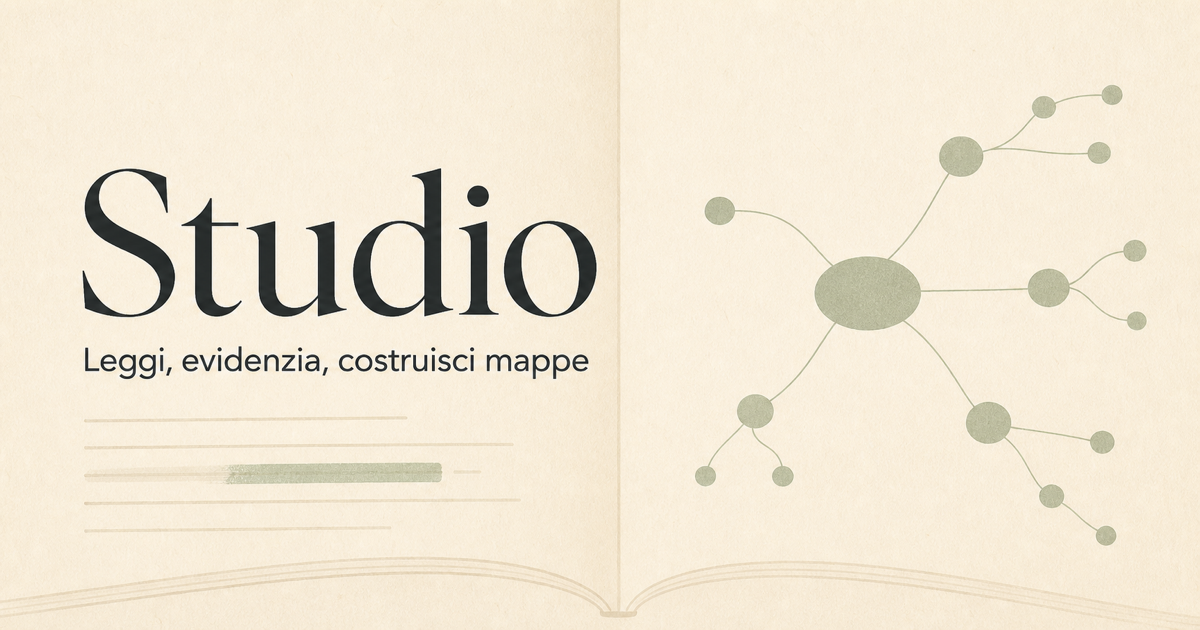
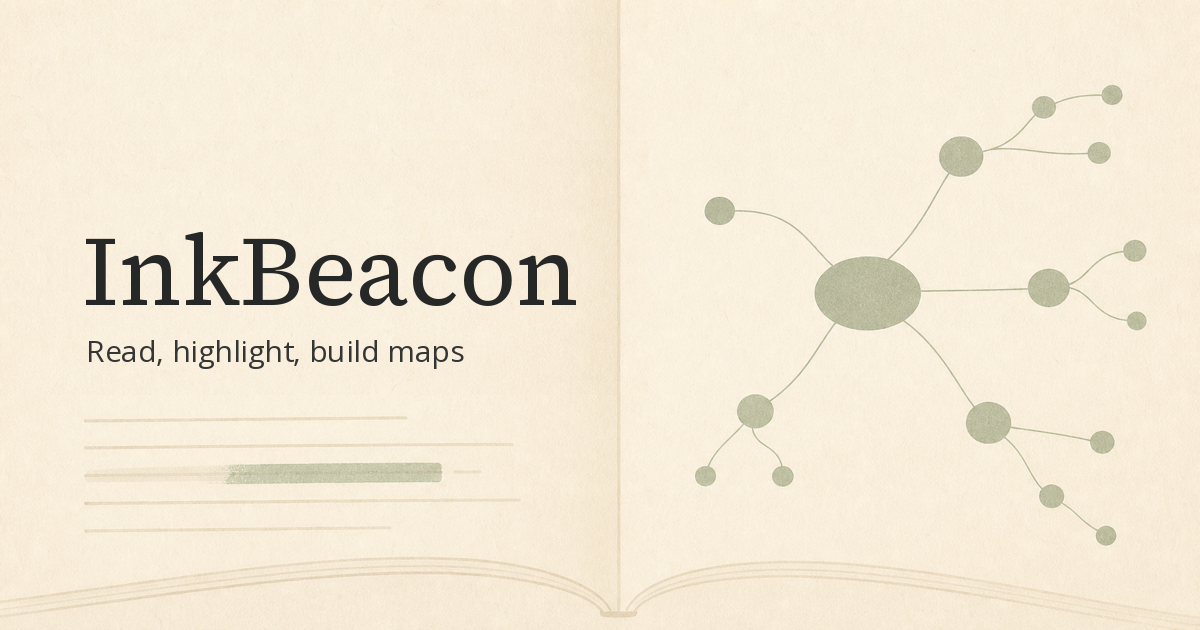
The app is called InkBeacon everywhere, share image included

Changed region(s): [[0.0617, 0.2413, 0.5242, 0.5127], [0.0617, 0.5429, 0.4933, 0.6032]]

diff --git a/app/layout.tsx b/app/layout.tsx
@@ -15,18 +15,18 @@ const metadataBase = new URL(
 
 export const metadata: Metadata = {
   metadataBase,
-  title: 'Studio — reading space',
+  title: 'InkBeacon',
   description:
-    'A personal surface for reading, highlighting and turning study sources into Mermaid maps.',
+    'A beacon of light in a “content” world where reading is hard-to-navigate. Read, highlight and turn what you study into Mermaid maps.',
   openGraph: {
-    title: 'Studio',
+    title: 'InkBeacon',
     description: 'Read, highlight, build maps.',
     images: [
       {
         url: '/og.png',
         width: 1200,
         height: 630,
-        alt: 'Studio — reading space and maps',
+        alt: 'InkBeacon — read, highlight, build maps',
       },
     ],
     type: 'website',
@@ -34,7 +34,7 @@ export const metadata: Metadata = {
   },
   twitter: {
     card: 'summary_large_image',
-    title: 'Studio',
+    title: 'InkBeacon',
     description: 'Read, highlight, build maps.',
     images: ['/og.png'],
   },

diff --git a/components/studio.tsx b/components/studio.tsx
@@ -1751,7 +1751,7 @@ export default function Studio({
                 href="/"
                 className="font-heading text-[18px] font-semibold leading-none tracking-[-0.025em] transition-colors hover:text-accent-strong"
               >
-                Studio
+                InkBeacon
               </Link>
               <Link
                 href={`/${course.slug}`}

diff --git a/AGENTS.md b/AGENTS.md
@@ -8,7 +8,7 @@ This block is written and re-added by `next dev` — verify at `node_modules/nex
 
 <!-- END:nextjs-agent-rules -->
 
-# Handoff — personal reading platform
+# Handoff — InkBeacon, a personal reading platform
 
 A personal study space: read a book unit by unit, highlight sentences, build a
 Mermaid diagram per chapter, track progress per course. Study state syncs to a

diff --git a/README.md b/README.md
@@ -1,4 +1,6 @@
-# Studio — a personal reading platform
+# InkBeacon
+
+A beacon of light in a “content” world where reading is hard-to-navigate.
 
 A space for studying your own texts: read chapter by chapter, highlight
 sentences, build a Mermaid diagram for each chapter and track the progress of
